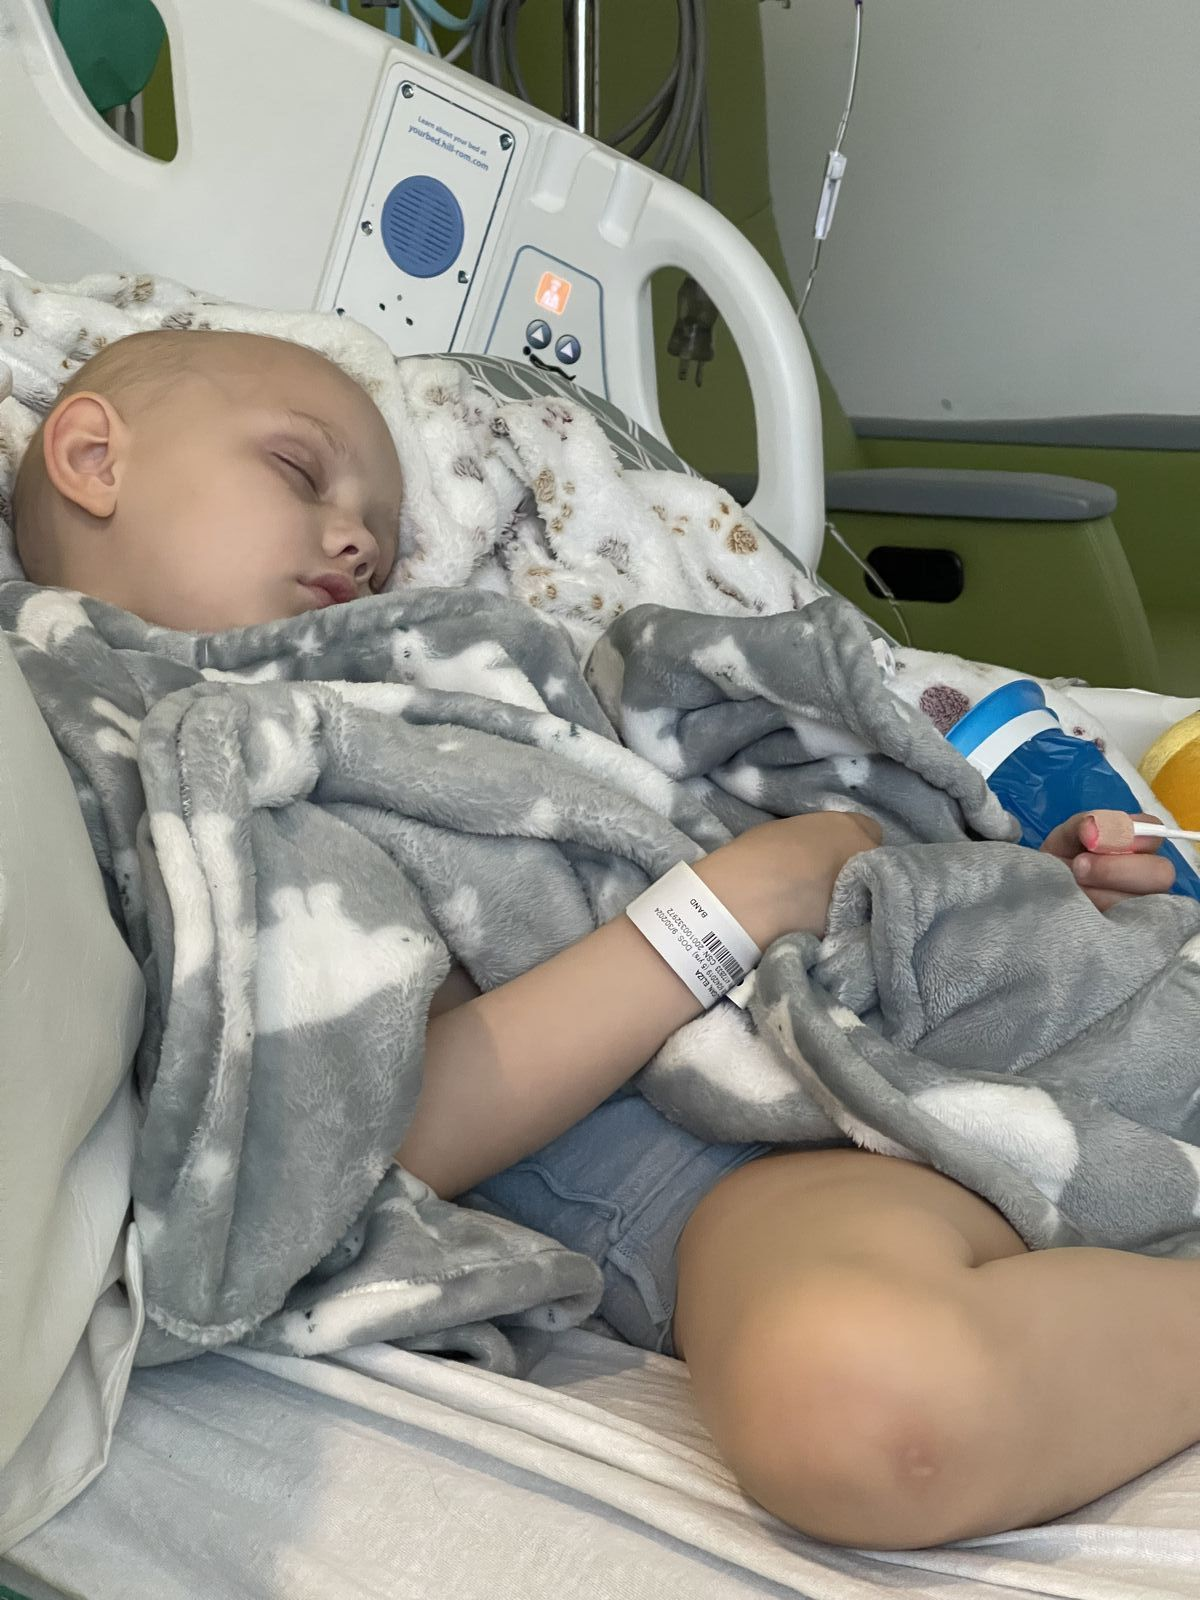
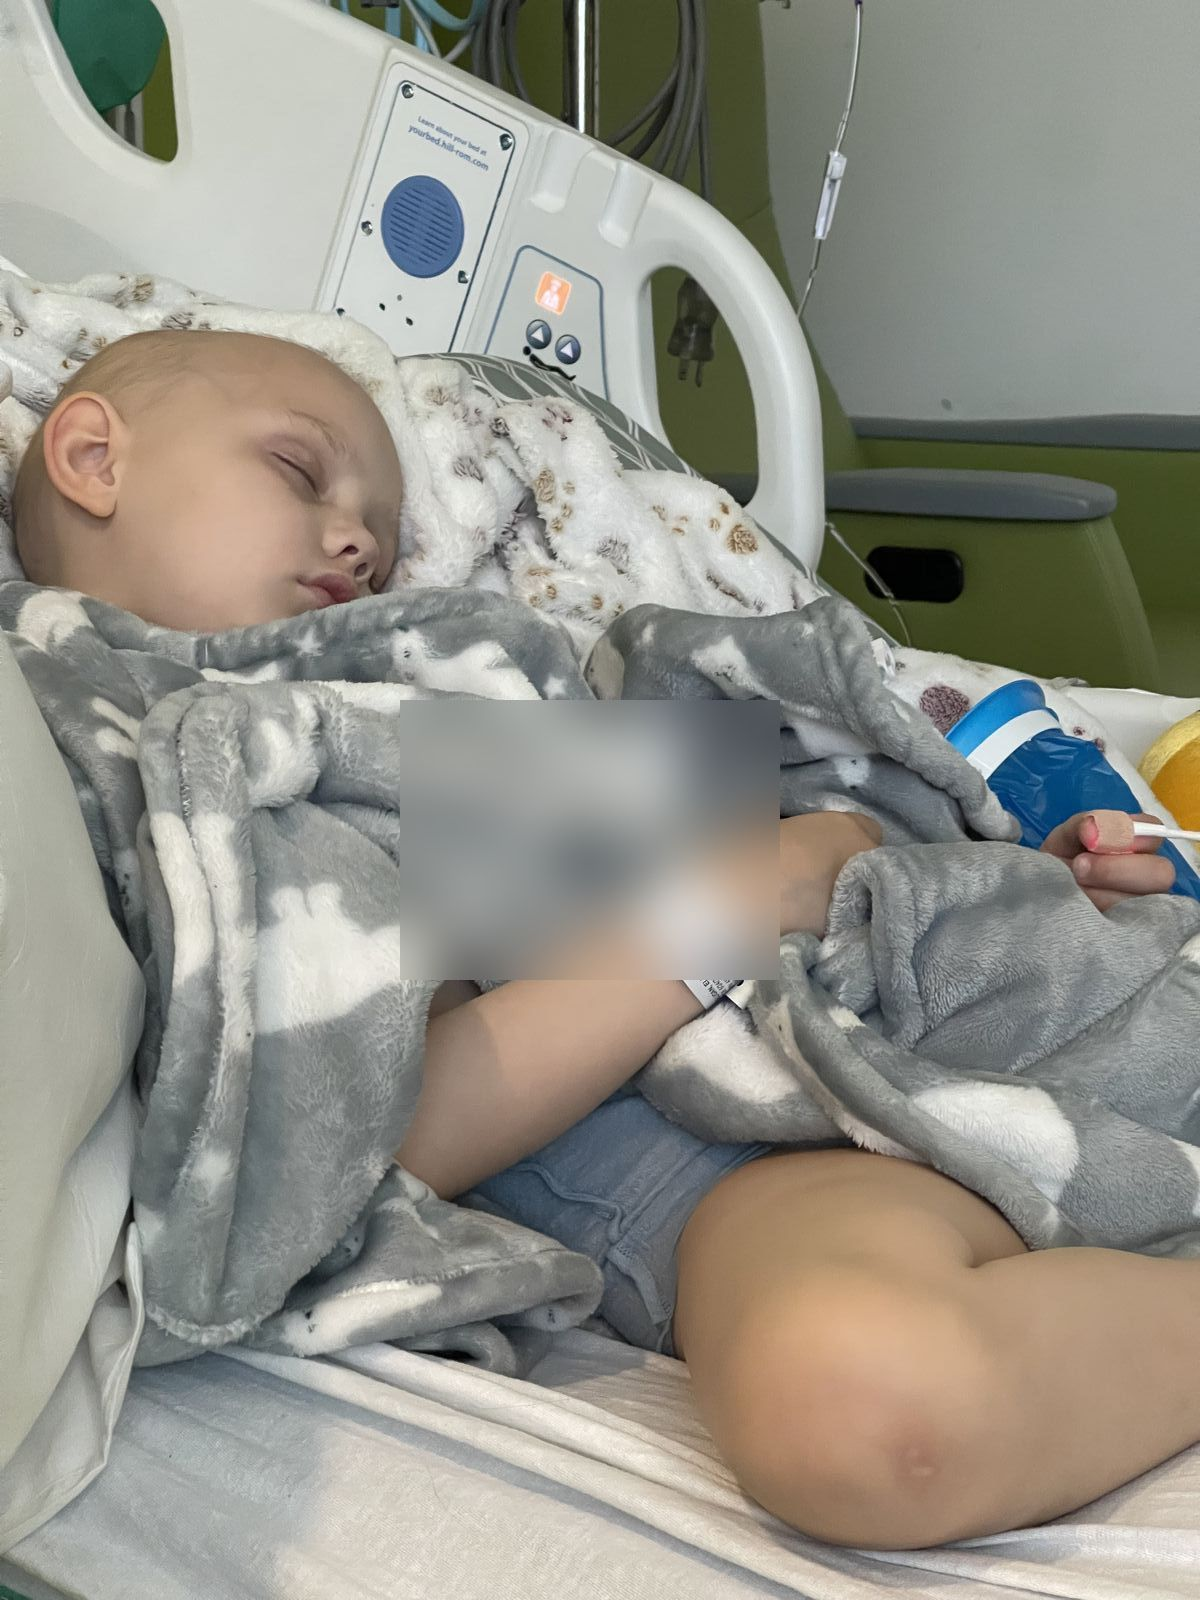
update

Changed region(s): [[0.3083, 0.4375, 0.6475, 0.625], [0.4317, 0.5938, 0.4625, 0.625]]

diff --git a/index.html b/index.html
@@ -134,7 +134,7 @@ nav { position:fixed; top:0; left:0; right:0; z-index:100; background:rgba(250,2
 .reframe-body strong { font-weight:700; color:var(--navy); }
 .reframe-closing { text-align:center; margin-top:64px; padding-top:48px; border-top:1px solid var(--rule); }
 .reframe-declaration { font-family:var(--f-display); font-size:clamp(30px,3.5vw,44px); font-weight:400; font-style:italic; color:var(--navy); line-height:1.3; margin-bottom:20px; }
-.reframe-dangerous { font-family:var(--f-body); font-size:17px; color:var(--mid-text); line-height:1.6; }
+.reframe-dangerous { font-family:var(--f-display); font-size:clamp(20px,2.2vw,26px); font-weight:600; color:var(--navy); line-height:1.4; }
 
 /* ══ THE ATTENTION RESET ══ */
 .reset-section { background:var(--navy); padding:100px 72px; }
@@ -466,7 +466,7 @@ footer { background:var(--ink); padding:32px 72px; display:flex; justify-content
   <div class="daily-label">People use their thinking partner for:</div>
   <div class="daily-grid">
    <div class="daily-item"><span class="daily-dot"></span><span>Breaking the generational patterns you did not choose but have been living.</span></div>
-   <div class="daily-item"><span class="daily-dot"></span><span>Understanding what brings you joy, energy, and life so you can choose those things more deliberately.</span></div>
+   <div class="daily-item"><span class="daily-dot"></span><span>Managing your work so you spend time on what only you can do &mdash; and offload or automate everything that drains you.</span></div>
    <div class="daily-item"><span class="daily-dot"></span><span>Figuring out why the same argument keeps happening in your closest relationships.</span></div>
    <div class="daily-item"><span class="daily-dot"></span><span>Processing a difficult parenting moment before you react.</span></div>
    <div class="daily-item"><span class="daily-dot"></span><span>Preparing for a hard conversation before it happens — so you walk in grounded, not reactive.</span></div>
